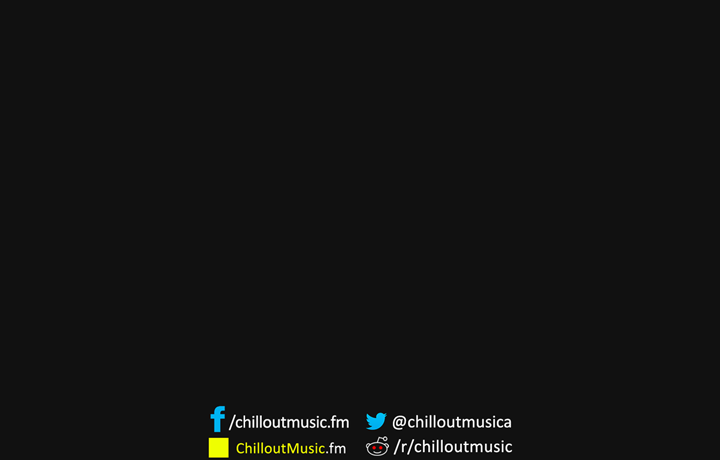
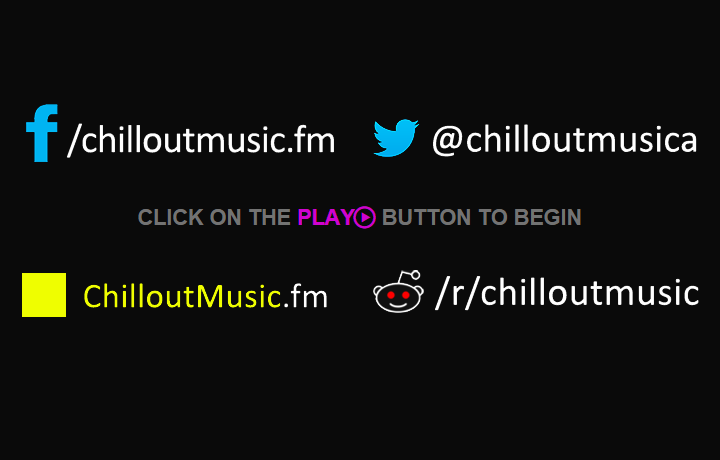
video player background update

diff --git a/dubBlue.css b/dubBlue.css
@@ -112,6 +112,10 @@
     background: #42A5DC;
     opacity: 0.75;
 }
+#main_player .player_container {
+    height: 25.45em;
+    background-image: url(https://raw.githubusercontent.com/PossiblyKris/css/master/ChilloutMusic_VideoBackground.png);
+}
 #main_player .player_container .skip-el {
     background: #42A5DC;
     opacity: 0.75;
